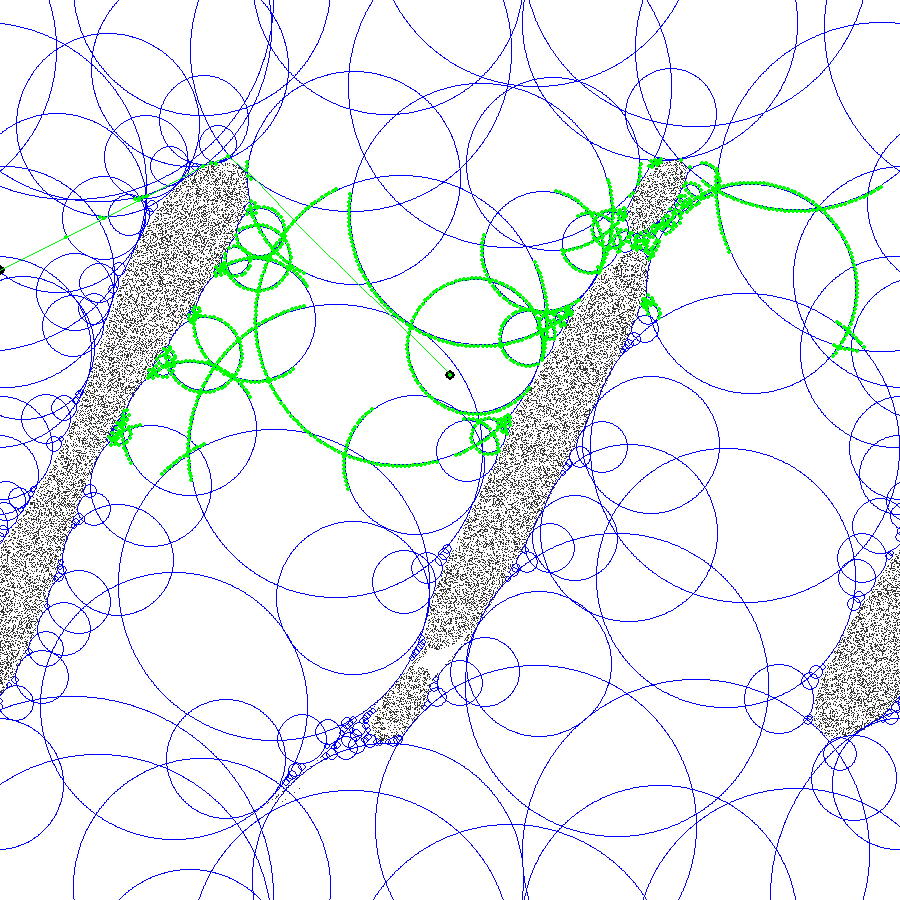
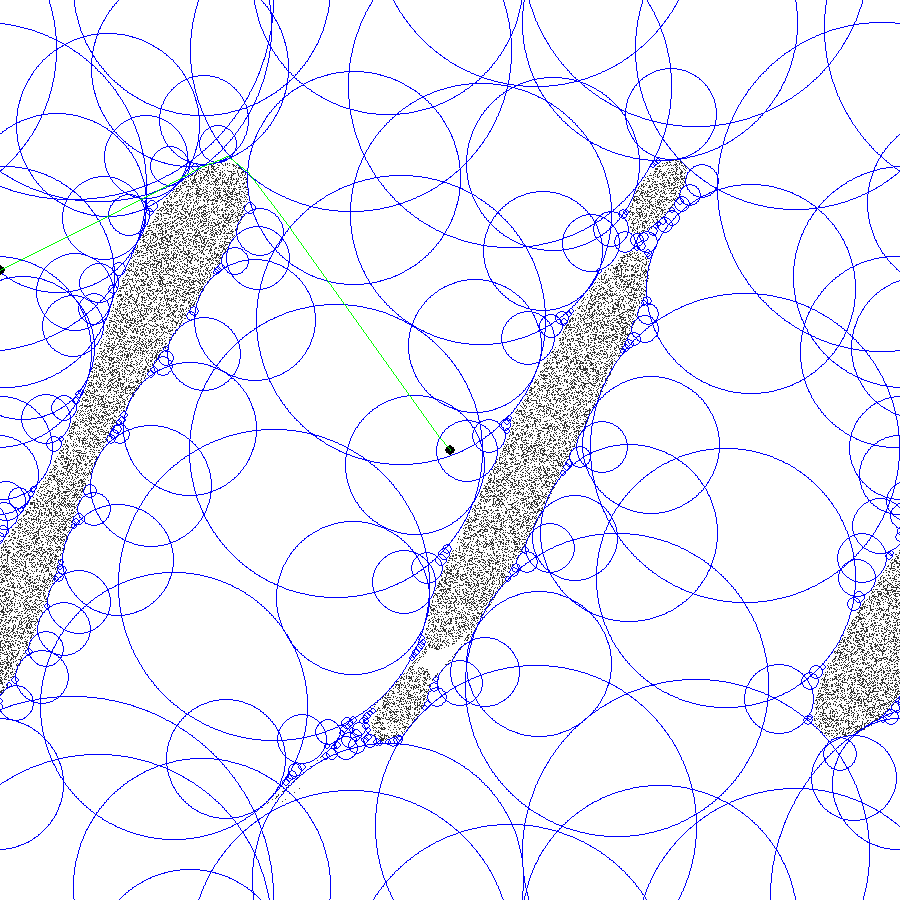
demo

diff --git a/SphereSamplingMotionPlanning/SphereSamplingMotionPlanning.py b/SphereSamplingMotionPlanning/SphereSamplingMotionPlanning.py
@@ -85,18 +85,18 @@ def main():
 
     ######## Let us find a path
     astarSearcher = AstarSearcher( sampleManager.mDistSamples, cSpaceWorld.mScaledWidth, cSpaceWorld.mScaledHeight );
-    start = ( 0, -math.pi/6 ); goal = (-math.pi/1,-math.pi/2.5);
+    start = ( 0, -math.pi/6 * 0 ); goal = (-math.pi/1,-math.pi/2.5);
     start_x, start_y = cSpaceWorld.map2ScaledSpace( start[0], start[1] );
     goal_x, goal_y = cSpaceWorld.map2ScaledSpace( goal[0], goal[1] );
     pygame.draw.circle(CSpaceSurface, (0,0,0), (int(start_x),int(start_y)), 5);
     pygame.draw.circle(CSpaceSurface, (0,0,0), (int(goal_x), int(goal_y)), 5);
 
-    before = datetime.datetime.now();
-    path = astarSearcher.astarSearch_Q( (start_x,start_y), (goal_x, goal_y), cSpaceWorld, CSpaceSurface );
-    now = datetime.datetime.now();
-    print now - before;
-    astarSearcher.savePath(path);
-    #path = astarSearcher.loadPath("path.txt");
+    #before = datetime.datetime.now();
+    #path = astarSearcher.astarSearch_Q( (start_x,start_y), (goal_x, goal_y), cSpaceWorld, CSpaceSurface );
+    #now = datetime.datetime.now();
+    #print now - before;
+    #astarSearcher.savePath(path);
+    path = astarSearcher.loadPath("path.txt");
     if path is not None:
         for i in range( 1, len(path) ):
             drawLine( path[i-1], path[i], CSpaceSurface, (0,255,0), cSpaceWorld.mScaledWidth, cSpaceWorld.mScaledHeight )
